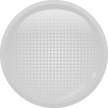
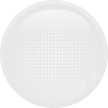
Update chart timing and signal assets

diff --git a/index_1.html b/index_1.html
@@ -96,6 +96,7 @@
       width: 100%;
       height: 100%;
       padding-top: 48px;
+      background: #fafafa;
     }
 
     .card {
@@ -393,7 +394,7 @@
       width: 304px;
       height: 152px;
       padding: 13px 12px 14px;
-      background: #f2f2f5;
+      background: #fafafa;
       border-radius: 12px;
     }
 
@@ -563,7 +564,7 @@
       width: 304px;
       height: 152px;
       padding: 16px 8px 14px 8px;
-      background: #f2f2f5;
+      background: #fafafa;
       border-radius: 12px;
       transition: background-color 220ms ease;
     }
@@ -722,7 +723,7 @@
     }
 
     .bar-panel.is-shell {
-      background: #f2f2f5;
+      background: #fafafa;
     }
 
     .bar-panel.is-shell .bar-title {
@@ -769,7 +770,7 @@
       width: 304px;
       height: 152px;
       padding: 0 16px 8px;
-      background: #f2f2f5;
+      background: #fafafa;
       border-radius: 12px;
     }
 
@@ -840,7 +841,7 @@
       line-height: 1;
       transform: translateY(-3px);
       transition-property: opacity;
-      transition-duration: 300ms;
+      transition-duration: 160ms;
     }
 
     .walk-bar {
@@ -871,19 +872,27 @@
     }
 
     .walk-item:nth-of-type(2) {
-      --walk-delay: 100ms;
+      --walk-delay: 200ms;
     }
 
     .walk-item:nth-of-type(3) {
-      --walk-delay: 200ms;
+      --walk-delay: 400ms;
     }
 
     .walk-item .walk-bar {
       transition-delay: calc(var(--walk-delay) + 40ms);
     }
 
-    .walk-item .walk-value {
-      transition-delay: calc(var(--walk-delay) + 440ms);
+    .walk-item:nth-of-type(1) .walk-value {
+      transition-delay: 460ms;
+    }
+
+    .walk-item:nth-of-type(2) .walk-value {
+      transition-delay: 660ms;
+    }
+
+    .walk-item:nth-of-type(3) .walk-value {
+      transition-delay: 860ms;
     }
 
     .walk-item .walk-label {
@@ -912,7 +921,7 @@
     }
 
     .walk-panel.is-shell {
-      background: #f2f2f5;
+      background: #fafafa;
     }
 
     .walk-panel.is-shell .walk-title,
@@ -1125,32 +1134,32 @@
           <div class="signal-grid">
             <div class="signal-item is-dim" data-signal="stable">
               <div class="signal-light">
-                <span class="signal-light-off" style="background-image: url('./切图/默认.png?v=1784359573');"></span>
-                <span class="signal-light-on" style="background-image: url('./切图/稳定.png?v=1784359573');"></span>
+                <span class="signal-light-off" style="background-image: url('./切图/默认.png?v=1784623300');"></span>
+                <span class="signal-light-on" style="background-image: url('./切图/稳定.png?v=1784623300');"></span>
               </div>
               <div class="signal-name">稳定</div>
               <div class="signal-meta">21–35天</div>
             </div>
             <div class="signal-item is-dim" data-signal="mild">
               <div class="signal-light">
-                <span class="signal-light-off" style="background-image: url('./切图/默认.png?v=1784359573');"></span>
-                <span class="signal-light-on" style="background-image: url('./切图/轻度波动.png?v=1784359573');"></span>
+                <span class="signal-light-off" style="background-image: url('./切图/默认.png?v=1784623300');"></span>
+                <span class="signal-light-on" style="background-image: url('./切图/轻度波动.png?v=1784623300');"></span>
               </div>
               <div class="signal-name">轻度波动</div>
               <div class="signal-meta">15–20或<br>36–90天</div>
             </div>
             <div class="signal-item is-dim" data-signal="strong">
               <div class="signal-light">
-                <span class="signal-light-off" style="background-image: url('./切图/默认.png?v=1784359573');"></span>
-                <span class="signal-light-on" style="background-image: url('./切图/明显波动.png?v=1784359573');"></span>
+                <span class="signal-light-off" style="background-image: url('./切图/默认.png?v=1784623300');"></span>
+                <span class="signal-light-on" style="background-image: url('./切图/明显波动.png?v=1784623300');"></span>
               </div>
               <div class="signal-name">明显波动</div>
               <div class="signal-meta">15–17天<br>46–90天</div>
             </div>
             <div class="signal-item is-dim" data-signal="watch">
               <div class="signal-light">
-                <span class="signal-light-off" style="background-image: url('./切图/默认.png?v=1784359573');"></span>
-                <span class="signal-light-on" style="background-image: url('./切图/建议关注.png?v=1784359573');"></span>
+                <span class="signal-light-off" style="background-image: url('./切图/默认.png?v=1784623300');"></span>
+                <span class="signal-light-on" style="background-image: url('./切图/建议关注.png?v=1784623300');"></span>
               </div>
               <div class="signal-name">建议关注</div>
               <div class="signal-meta">&lt;15天<br>&gt;90天</div>
@@ -1228,15 +1237,15 @@
           <div class="walk-chart">
             <div class="walk-item">
               <div class="walk-plot">
-                <div class="walk-value">5天</div>
-                <div class="walk-bar" style="height: 40px;"></div>
+                <div class="walk-value">7天</div>
+                <div class="walk-bar" style="height: 56px;"></div>
               </div>
               <div class="walk-label">上上次</div>
             </div>
             <div class="walk-item">
               <div class="walk-plot">
-                <div class="walk-value">6天</div>
-                <div class="walk-bar" style="height: 48px;"></div>
+                <div class="walk-value">5天</div>
+                <div class="walk-bar" style="height: 40px;"></div>
               </div>
               <div class="walk-label">上次</div>
             </div>
@@ -1331,11 +1340,9 @@
         activePlayButton.disabled = true;
       }
       const totalDuration = 1200;
-      await Promise.all(
-        cards.map((card) =>
-          runCardSteps(card, Number(card.dataset.steps || 1), totalDuration)
-        )
-      );
+      for (const card of cards) {
+        await runCardSteps(card, Number(card.dataset.steps || 1), totalDuration);
+      }
       if (activePlayButton) {
         activePlayButton.disabled = false;
       }